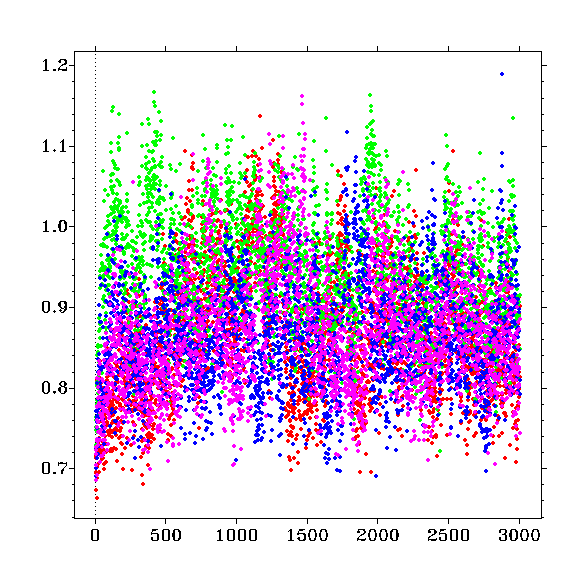
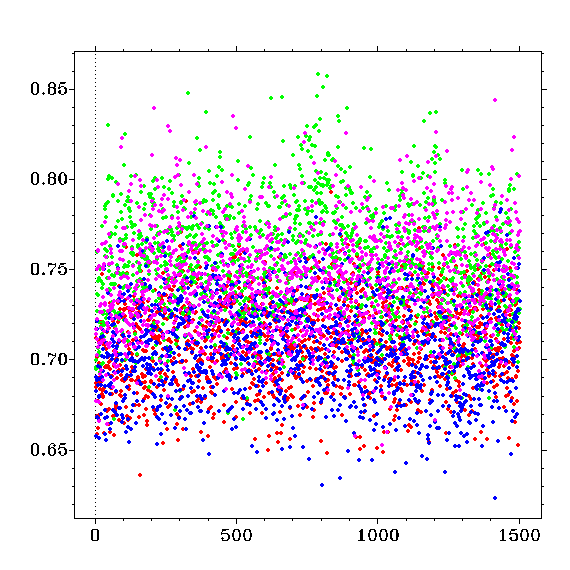
progress on updating Ex-image.doc, not done

diff --git a/doc/Ex-image.html b/doc/Ex-image.html
@@ -10,7 +10,7 @@ classification of images.  Here, a fairly simple artificial example of
 such an image classification problem is presented.  Several Bayesian
 neural network models are applied to this task, including ones that
 use convolutional connections.  Fitting such models by simple gradient
-descent is also presented.
+descent is also demonstrated.
 
 These examples also illustrate how the training data can be divided in
 several ways into a set of cases used for fitting, and a set of
@@ -31,8 +31,8 @@ which one of the symbols "+", "X", "O", or "H" appears in some 3x3
 patch in the image.  The classification task is to predict from the 36
 pixels of an image which symbol appears in some patch in the image
 (whose location could be any of the sixteen possibilities).  The file
-'idata' has 4000 generated cases, the first 1600 of which are used for
-training, and the remaining 2400 for testing.
+'idata' has 21536 generated cases, the first 1536 of which are used
+for training, and the remaining 20000 for testing.
 
 Generation of an image starts by randomly generating background pixel
 values from a Gaussian distribution with mean zero and standard
@@ -98,21 +98,22 @@ generated:
 
 The diagrams at the right show the pixels of the image thresholded at
 values less than -0.5 (O), greater than +0.5 (#), and between -0.5 and
-+0.5 (space).  For the second image, noise in the pixels has made the
-symbol less certain (probability 0.843 for the correct symbol) than
-for the first case (probability 0.999 for the correct symbol), and for
-the third image, the correct symbol has lower probability (0.418) than
-one of the incorrect symbols (0.582) - with all these probabilities
-computed assuming the true generation model is known.
++0.5 (space).  For the second image (case 11), noise in the pixels has
+made the symbol less certain (probability 0.843 for the correct
+symbol) than for the first image (case 2) (probability 0.999 for the
+correct symbol), and for the third image (case 60), the correct symbol
+has lower probability (0.418) than one of the incorrect symbols
+(0.582.  All these probabilities are computed assuming the true
+generation model is known.
 
 The igen program computes the performance on test cases when using the
 true model, which is an upper limit on what can be accomplished when
 learning a model from the training cases (unless one is just lucky).
 Here is the summary:
 
-  Error rate on test cases with true model: 0.082
-  Average squared error for test cases with true model: 0.117
-  Average log probability for test cases with true model: -0.205
+  Error rate on test cases with true model: 0.069
+  Average squared error for test cases with true model: 0.100
+  Average log probability for test cases with true model: -0.174
 
 
 A fully-connected Bayesian neural network model.
@@ -121,31 +122,32 @@ We can first try a neural network model that has no built-in knowledge
 of how the 36 pixel values are arranged in a 6x6 image, or any
 specific knowledge that the symbol to be detected is in a 3x3 patch of
 this image.  The model simply feeds the 36 inputs into a hidden layer
-with 80 tanh units, which in turn feeds into an output layer with 4
-"softmax" units, which are used to define the class probabilities, as
-in the classification example in <A HREF="Ex-netgp-c.html">Ex-netgp-c.doc</A>.
+with 80 "softplus" units, which in turn feed into an output layer with
+4 units, which are used to define the class probabilities (using the
+"softmax" scheme), as in the classification example in <A HREF="Ex-netgp-c.html">Ex-netgp-c.doc</A>.
 
 This model can be specified with the following commands:
 
-  net-spec $log 36 80 4 \
-            / ih=0.05:3::1.5 bh=0.3:2 ho=0.1:3::4 bo=0.1:2
+  net-spec $log 36 80 softplus 4 \
+                / ih=0.05:3::1.5 bh=0.3:2 ho=0.1:3::4 bo=0.1:2
   model-spec $log class
 
 Here, $log represents the name of the log file.  This is followed by
-the specification that there are 36 input, 80 hidden units, and 4
-units used to produce class probabilities, using the "softmax" scheme.
+the specification that there are 36 input, 80 hidden units with
+"softplus" activation function, and 4 units used to produce class
+probabilities using the "softmax" scheme.
 
 The prior specification for input-to-hidden weights, of 0.05:3::1.5,
-does not allow for different inputs to have different relevance (hence
-no number between the secnd and third colons, so there is no variation
-between input groups), since we will assume that it is known that the
-inputs are almost equally relevant (since the symbol to be recognized
-might occur anywhere in the image).  The final 1.5 in the prior
-specification gives the input-to-hidden weights a heavy-tailed prior
-(a t distribution with 1.5 degrees-of-freedom), allowing for the
+does not allow for different inputs to have different relevance (there
+is no number between the second and third colons, so there is no
+variation between input groups), since we will assume that it is known
+that the inputs are almost equally relevant (since the symbol to be
+recognized might occur anywhere in the image).  The final 1.5 in the
+prior specification gives the input-to-hidden weights a heavy-tailed
+prior (a t distribution with 1.5 degrees of freedom), allowing for the
 possibility that the input-to-hidden connections are effectively
 sparse, with a hidden unit looking mostly at only a few of the pixel
-values.  The hidden-to-outuput weights also have a (less extreme)
+values.  The hidden-to-output weights also have a (less extreme)
 heavy-tailed prior, allowing for some of the hidden units to have
 small weights to some of the output units.
 
@@ -163,16 +165,16 @@ The data specification used is therefore as follows:
 
 Here $start and $end represent the range of training cases comprising
 the validation set (here specified as the "test" set), with the
-remainder of the 1600 training cases used for fitting the model.  In
-the four runs that are done, $start and $end will be set to 1 and 400,
-401 and 800, 801 and 1200, and 1201 and 1600.  (These runs will use
+remainder of the 1536 training cases used for fitting the model.  In
+the four runs that are done, $start and $end will be set to 1 and 384,
+385 and 768, 769 and 1152, and 1153 and 1536.  (These runs will use
 log files of ilog1.net1, ilog1.net2, ilog1.net3, and ilog1.net4.)
 
 When final predictions for test cases are made, the "test" data
 specified in this data-spec command will be overridden by the actual
 test data, which is in idata-test.
 
-The numbers in the data-spec command specify that there are 36 inputs
+The numbers in the data-spec command specify that there are 36 inputs,
 and 1 target, which has 4 possible values (coded as 0, 1, 2, 3).
 
 With the network model and data specified, training is done as follows:
@@ -181,42 +183,42 @@ With the network model and data specified, training is done as follows:
 
   net-gen $log fix 0.1
 
-  mc-spec $log repeat 120 heatbath hybrid 200:20 0.1
+  mc-spec $log repeat 120 heatbath hybrid 200:20 0.05
   net-mc $log 1
 
-  mc-spec $log repeat 60 sample-sigmas heatbath hybrid 400:40 0.15
+  mc-spec $log repeat 60 sample-sigmas heatbath hybrid 400:40 0.07
   net-mc $log 2
 
-  mc-spec $log repeat 24 sample-sigmas heatbath 0.9 hybrid 1000:100 0.21 negate
-  net-mc $log 3000
+  mc-spec $log repeat 24 sample-sigmas heatbath 0.9 hybrid 1000:100 0.09 negate
+  net-mc $log 1500
 
 Here, $run is 1, 2, 3, or 4, identifying which of the four runs this
-is, which affects the random number seed used.  The hyperparameters
-are initialized to the fairly small value of 0.1, and 120 HMC updates
-are done with the hyperparameters fixed at this value, so that the
-parameters will take on reasonable values for the data before trying
-to update the hyperparameters.  After this, 60 HMC updates are done
-with hyperparmeters updated before each HMC update, using a moderate
-number (400) of leapfrog steps.  This is intended to get the
-hyperparameters to reasonable values (given how well the data has been
-fitted so far).  The main sampling iterations are then done, in which
-updates for the hyperparameters alternate with HMC iterations using a
-longer trajectory of 1000 leapfrog iterations.  Each of the 2998 saved
-states from this main sampling phase are the result of 24 such pairs
-of hyperparameter updates and HMC updates for parameters.
+is, which affects the random number seed used (and the log file name).
+The hyperparameters are initialized to the fairly small value of 0.1,
+and 120 HMC updates are done with the hyperparameters fixed at this
+value, so that the parameters will take on reasonable values for the
+data before trying to update the hyperparameters.  After this, 60 HMC
+updates are done with hyperparmeters updated before each HMC update,
+using a moderate number (400) of leapfrog steps.  This is intended to
+get the hyperparameters to reasonable values (given how well the data
+has been fitted so far).  The main sampling iterations are then done,
+in which updates for the hyperparameters alternate with HMC iterations
+using a longer trajectory of 1000 leapfrog iterations.  Each of the
+1498 saved states from this main sampling phase are the result of 24
+such pairs of hyperparameter updates and HMC updates for parameters.
 
 The HMC updates all use the "windowed" method, to increase acceptance
 rate, with the windows being 1/10 of the trajectory.  Relatively small
 leapfrog stepsizes are used initially, to guard against rejection
 rates being high when starting at an atypical location.  The stepsize
-of 0.21 for the main sampling phase produces a rejection rate of 1% to
+of 0.09 for the main sampling phase produces a rejection rate of about
 3%.  To further reduce random walk behaviour, without reducing the
 number of hyperparameter updates, the "persistent momentum" version of
 HMC is used for the final sampling phase.
 
-Each full iteration of this sampling procedure takes about 40 seconds
-on the system used (<A HREF="Ex-test-system.html">Ex-test-system.doc</A>), for a total of about 2000
-minutes (about 33 hours) for the 3000 iterations done.  The command
+Each full iteration of this sampling procedure takes about 45 seconds
+on the system used (<A HREF="Ex-test-system.html">Ex-test-system.doc</A>), for a total of about 1160
+minutes (about 19 hours) for the 1500 iterations done.  The command
 script in ex-image/icmds1.net does all four runs in parallel, so this
 will be the total wall-clock time if the system used has at least four
 processor cores.
@@ -239,25 +241,31 @@ The fit (squared error) for the training data can be checked with
 As seen in <A HREF="ilog1-b.png">ilog1-b.png</A>, all four runs seem to reach the equilibrium
 distribution for this value in 100 iterations or less.  (The
 equilibrium distributions differ slightly between runs because they
-have different training and validation sets.)
+have different training sets.)
 
 The squared error for each iteration on the validation cases can be
 seen with
 
   net-plt t B ilog1.net? | plot-points
 
-As seen in <A HREF="ilog1-BB.png">ilog1-BB.png</A>, this quantity show higher long-term
-autocorrelation than the training fit, but again may have reached
-equilibrium in less than 100 iterations.  Note that although this
-quantity is useful in seeing how well the Markov chain is sampling,
-the squared error on validation cases from a single iteration does NOT
-tell one how good the predictions on these validation cases found by
-averaging many iterations would be - poor predictions from a single
-iteration may be the result of the model producing high confidence
-predictions at each iteration, that vary from iteration to iteration,
-so that the averaged prediction has much lower confidence (and perhaps
-much better performance).  So there is not necessarily anything wrong
-when the error on validation cases from individual networks is high.
+As seen in <A HREF="ilog1-BB.png">ilog1-BB.png</A>, this quantity also seems to have reached
+equilibrium in less than 100 iterations.  
+
+For both the 'b' and 'B' quantities, one can see some long-lag
+autocorrelation, indicating that longer runs would be needed to get
+really good samples from the posterior distributions.  But the run
+length done here seems adequate for purposes of producing predictions.
+
+Note that although the average squared error on validation cases is
+useful in seeing how well the Markov chain is sampling, the error from
+a single iteration does NOT tell one how good the predictions on these
+validation cases found by averaging many iterations would be - poor
+predictions from a single iteration may be the result of the model
+producing high confidence predictions at each iteration, that vary
+from iteration to iteration, so that the averaged prediction has much
+lower confidence (and perhaps much better performance).  So there is
+not necessarily anything wrong when the error on validation cases from
+individual networks is high.
 
 We can look at the main hyperparameters (standard deviations for
 input-hidden weights, hidden biases, and hidden-output weights) at
@@ -266,17 +274,16 @@ each iteration of the first run as follows:
   net-plt t h1h2h3 ilog1.net1 | plot-points-log-scale
 
 This data is best plotted on a log scale, because the three
-hyperparameters differ greatly in magnitude, and also vary greatly
-over iterations.  The plot is in <A HREF="ilog1-h1h2h3.png">ilog1-h1h2h3.png</A>.  Note that h1
-(input-to-hidden) is red, h2 (hidden biases) is green, and h3
-(hidden-to-output) is blue.
+hyperparameters differ greatly in magnitude.  The plot is in
+<A HREF="ilog1-h1h2h3.png">ilog1-h1h2h3.png</A>.  Note that h1 (input-to-hidden) is red, h2 (hidden
+biases) is green, and h3 (hidden-to-output) is blue.
   
 Once all runs have finished, we can assess performance on the actual
-test set as follows (with the first 1000 iterations discarded as
-"burn-in", which seems sufficient given the plots above):
+test set as follows (with the first 500 iterations discarded as
+"burn-in", which seems more than sufficient given the plots above):
 
-  net-pred mnpa ilog1.net1 1001: ilog1.net2 1001: \
-                ilog1.net3 1001: ilog1.net4 1001: / idata-test .
+  net-pred mnpa ilog1.net1 501: ilog1.net2 501: \
+                ilog1.net3 501: ilog1.net4 501: / idata-test .
 
 The output is as follows:
 
@@ -379,10 +386,7 @@ looking at 9 pixels), which are shared by 16x9x5=720 connections
 (which is less than the 36x80=2880 possible connections).
 
 The other commands used are almost the same as for the fully-connected
-network model above.  The only difference is that the stepsize for the
-final sampling phase is reduced from 0.21 to 0.2 to counter the fact
-that at one stage (iterations 500 to 1000) the rejection rate with
-this model goes up a bit.
+network model above, except that stepsizes have been increased a bit.
 
 Each full iteration takes about 37 seconds on the system used
 (<A HREF="Ex-test-system.html">Ex-test-system.doc</A>), for a total of 31 hours (with the four runs done
@@ -402,8 +406,8 @@ Once all runs have finished, we can assess performance on the actual
 test set as follows (with the first 1000 iterations discarded as
 "burn-in", which seems more than sufficient given the plots above):
 
-  net-pred mnpa ilog2.net1 1001: ilog2.net2 1001: \
-                ilog2.net3 1001: ilog2.net4 1001: / idata-test .
+  net-pred mnpa ilog2.net1 501: ilog2.net2 501: \
+                ilog2.net3 501: ilog2.net4 501: / idata-test .
 
 The output is as follows:
 
@@ -592,8 +596,8 @@ hyperparameter for second hidden layer biases is not displayed.)
 Predictive performance on the test set is better than for the
 convolutional model without the second hidden layer. The command
 
-  net-pred mnpa ilog3.net1 1001: ilog3.net2 1001: \
-                ilog3.net3 1001: ilog3.net4 1001: / idata-test .
+  net-pred mnpa ilog3.net1 501: ilog3.net2 501: \
+                ilog3.net3 501: ilog3.net4 501: / idata-test .
 
 produces this output:
 
